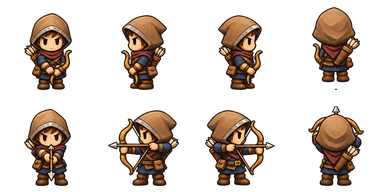
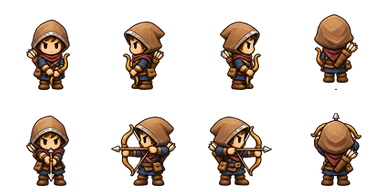
fix(art): match upgraded archer and dwarf painted footprints to preceding towers

diff --git a/flowforge/sets/village/README.md b/flowforge/sets/village/README.md
@@ -37,3 +37,7 @@
 사용자가 제공한 성장 라인업과 게임에 있는 계열별 콘셉트를 디자인 기준으로 삼고, 프로젝트의 레벨 1 Village 에셋 화풍을 참조해 이미지 생성 도구로 새 원화를 제작했다. 배경·잔여 픽셀 제거, 전면 윤곽 추출, 균일 축소, 프레임 정렬과 합성 검수를 수행했다. 유료 외부 에셋 파일을 포함하지 않는다.
 
 Godot 4.6.3에서 38개 PNG의 실제 로딩·원본과의 캔버스 호환, 실제 게임 씬의 텍스처 교체·Original 복귀·부분 폴백과 Village를 선택한 `archer-01`의 10형태 검증을 통과했다. PNG 전체의 RGBA/알파·디코딩, 144프레임의 비어 있음·중복·셀 경계 잘림 검사도 통과했다. 브라우저에서의 수동 플레이 확인과 자동 검증은 별개다.
+
+## 표시 크기
+
+Village의 10종은 게임에서 공통 0.70 배율을 사용한다. 원본 아처 II의 0.64 배율을 후보에 재사용하지 않는다. 아처 II 타워의 실제 그림 폭은 I와 같게, 바닥선은 1픽셀 이내로 맞췄다. 궁수는 과하게 커지지 않게 시트 내 몸체를 보정했다. 드워프 II도 실제 그림 폭이 I보다 작지 않게 전 레이어를 같은 배율로 보정했다. 나머지 계열의 자연스러운 수관·천막·마법 구조 높이 차이는 유지한다.
